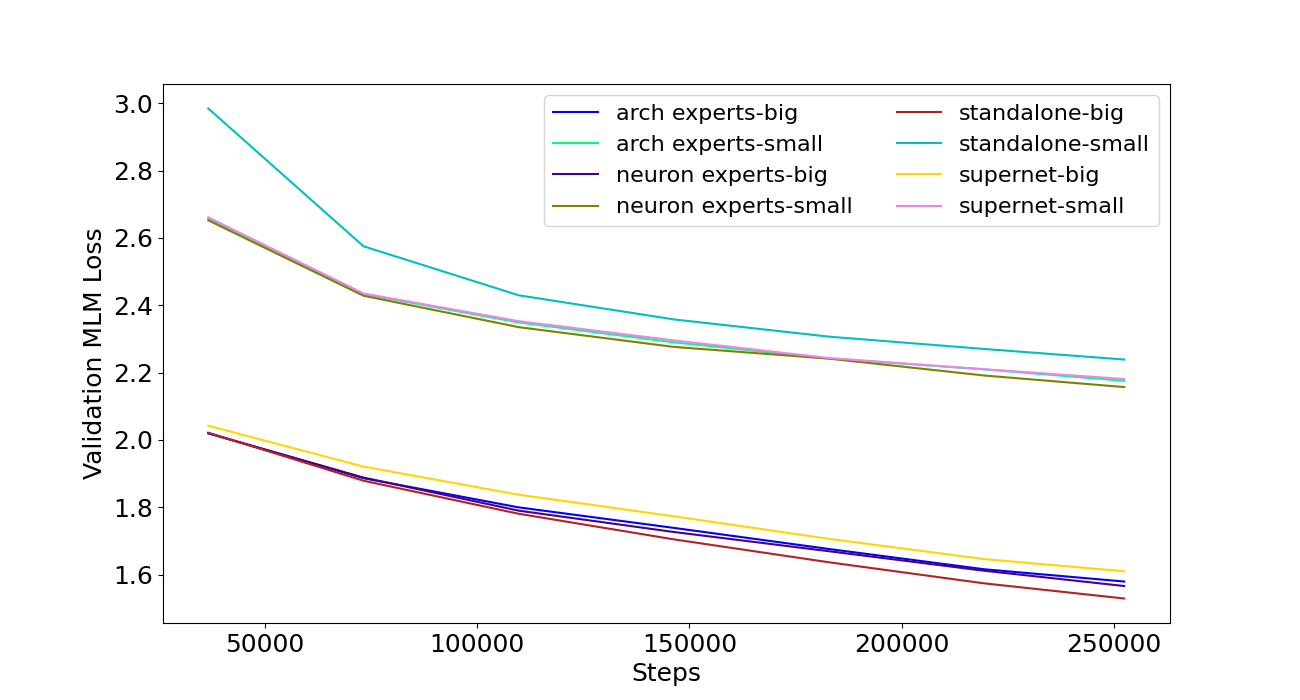
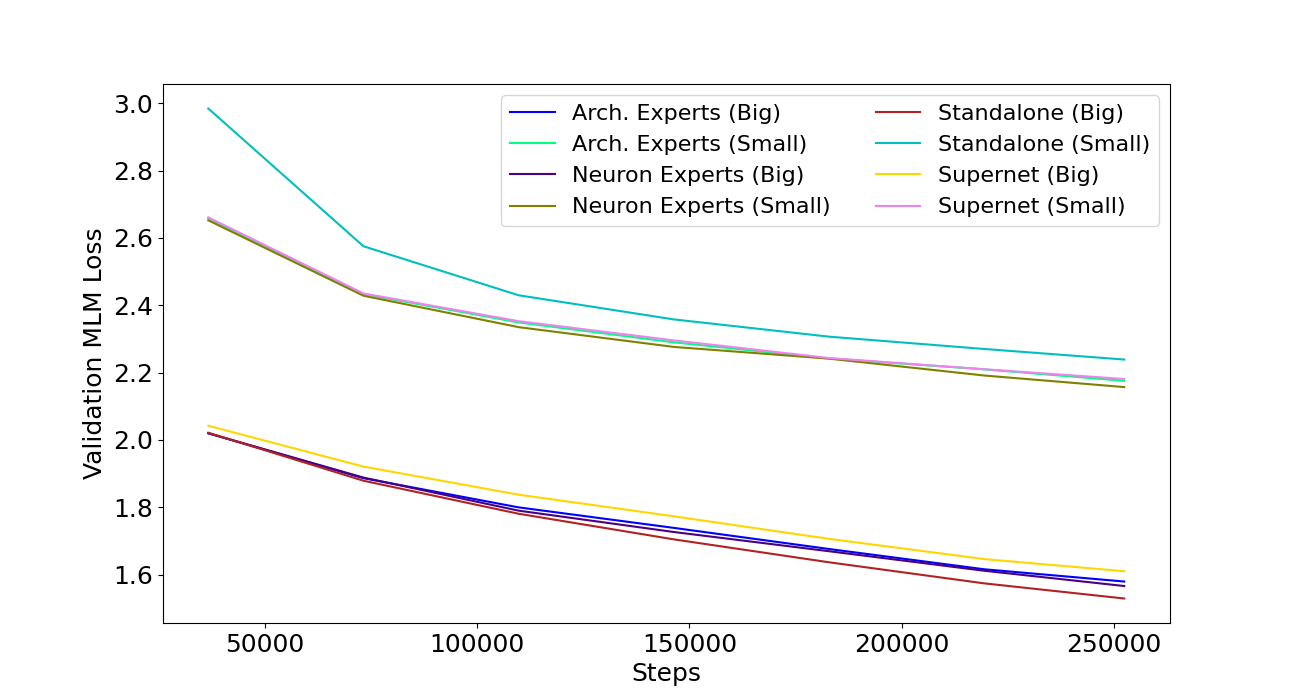
plots

Changed region(s): [[0.4, 0.15, 0.6769, 0.33], [0.7077, 0.15, 0.8923, 0.33]]

diff --git a/aws/general_utils.py b/aws/general_utils.py
@@ -174,7 +174,7 @@ def get_learning_curve_fromwandb(plot_output, supernet_runids=None, standalone_r
         ei = 0
         for model in sorted(scores):
             if name == "val_loss" or every_x_steps == -1:
-                sns.lineplot(x=scores[model][0], y=scores[model][1], color=colors[ei], label=model)
+                sns.lineplot(x=scores[model][0], y=scores[model][1], color=colors[ei], label=good_names[model])
             else:
                 cur_x, cur_y = [], []
                 print(name, model)
